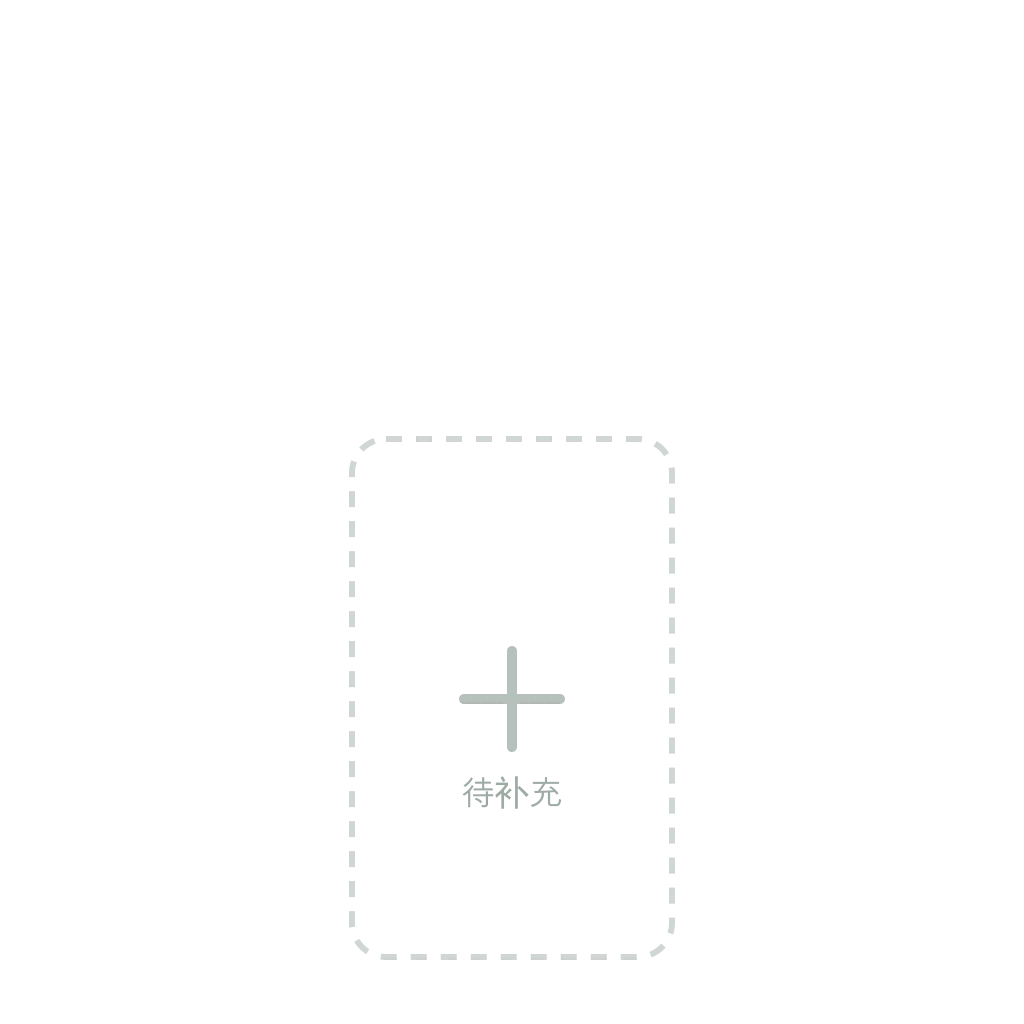
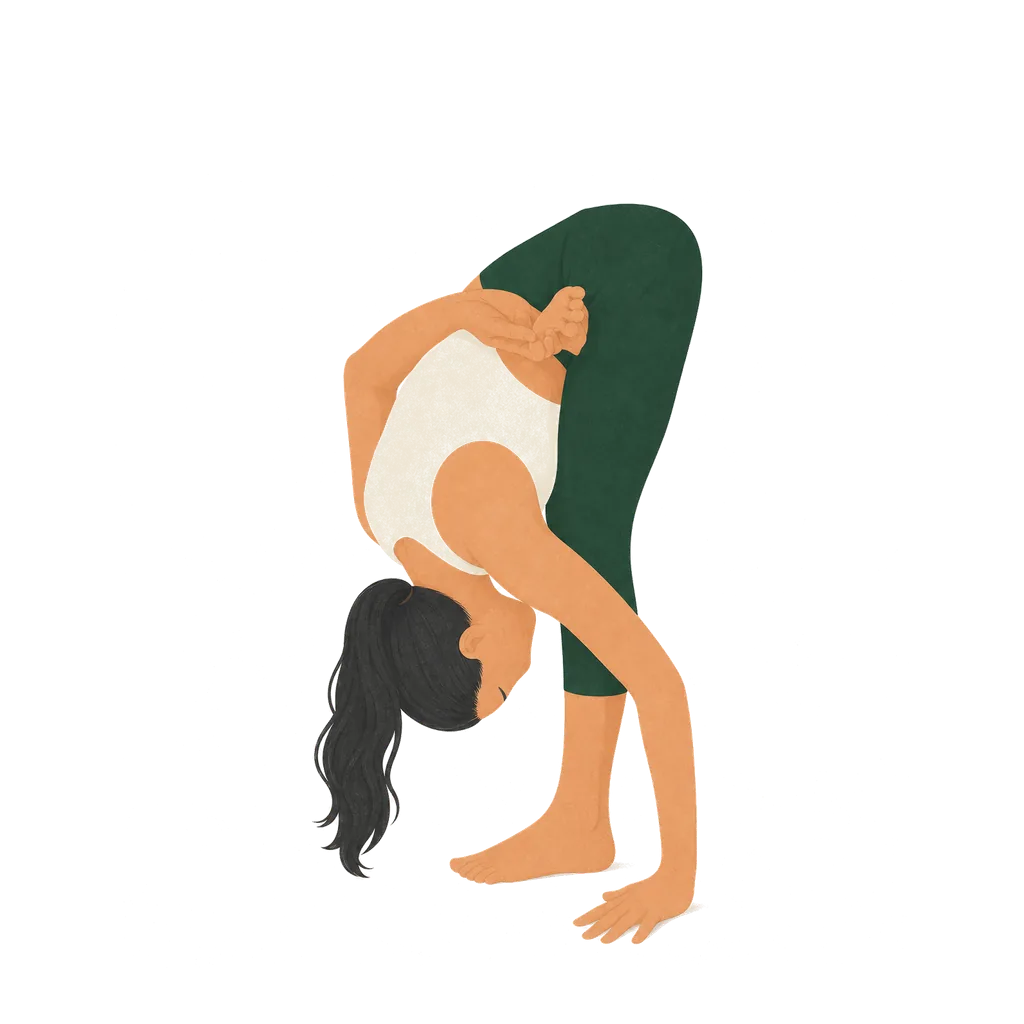
fix: replace standing pose 15 placeholder
Import the user-provided Ardha Baddha Padmottanasana artwork, remove its paper background, align it to the standing baseline, and publish the final WebP assets.

Changed region(s): [[0.2812, 0.1875, 0.6875, 0.9375]]

diff --git a/docs/pose-library/STATUS.md b/docs/pose-library/STATUS.md
@@ -34,8 +34,8 @@
 ### 站立体式
 
 - 共保留 18 个正式顺序位置。
-- 17 个位置使用女性 IP 透明素材；第 15 个 `Ardha Baddha Padmottanasana` 暂时使用“待补充”占位图。
-- 第 15 张此前多次生成仍无法稳定表达半莲花腿、背后抓脚和遮挡关系，因此不再使用错误成图，等待外部制作后按原文件名替换。
+- 18 个位置均使用女性 IP 透明素材；第 15 个 `Ardha Baddha Padmottanasana` 已于 2026-07-23 使用用户提供的新图替换占位图。
+- 第 15 张新图保留半莲花腿、背后抓脚和遮挡关系，只进行背景移除、等比例缩放与基线对齐，不再修改人物动态。
 - 人物尺度已经按前屈、宽站、单腿站立、举手弓步四类重新校准，不按图片外接框强行等高。
 - 全部素材使用 1024×1024 透明母版，主要落地点统一到 `y=959`。
 - APP 已输出 1024 详情 WebP 和 320×320 缩略 WebP。
@@ -60,11 +60,10 @@
 
 ## 下一步
 
-1. 用户将第 15 张交给其他图片工具制作；收到透明 PNG 后按原路径替换占位图。
-2. 推送 `master2` 并在手机端检查新版站立体式的人物尺度和占位状态。
-3. 按同一流程处理坐立体式：先完整联系表核对，再分批返修，最后统一人物尺度。
-4. 处理结束体式。
-5. 用户提供认可的标准中文名、梵文名及文案后，再统一审核名称、呼吸、凝视点和教学提示。
+1. 推送 `master2` 并在手机端检查新版站立体式的人物尺度及第 15 张显示效果。
+2. 按同一流程处理坐立体式：先完整联系表核对，再分批返修，最后统一人物尺度。
+3. 处理结束体式。
+4. 用户提供认可的标准中文名、梵文名及文案后，再统一审核名称、呼吸、凝视点和教学提示。
 
 ## 关键文件
 
@@ -73,6 +72,8 @@
 - 页面测试：`__tests__/poses-tab.test.tsx`
 - APP 素材：`public/poses/primary-series-ip-v1/`
 - 站立体式构建：`scripts/build-standing-v3-full.mjs`
+- 第 15 张源图：`assets/pose-library/standing/ardha-baddha-padmottanasana-source.png`
+- 第 15 张导入：`scripts/import-standing-pose-15.mjs`
 - 站立体式发布：`scripts/publish-standing-v3-full.mjs`
 - 站立体式验证：`scripts/validate-standing-v3-full.mjs`
 - 站立联系表：`output/primary-series-ip-v3/standing/contact-sheets/standing-v3-review-numbered.png`
